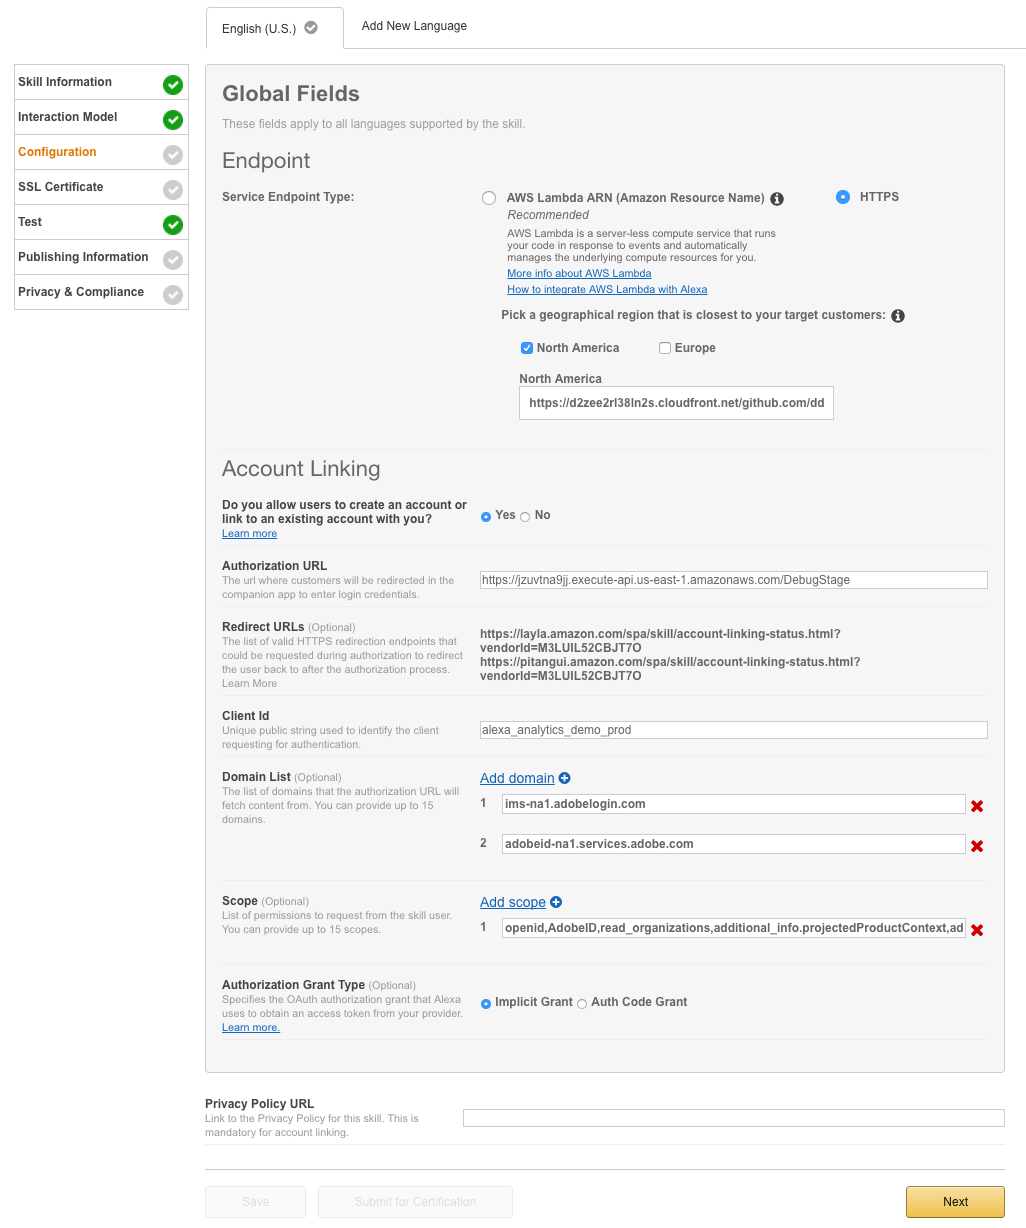
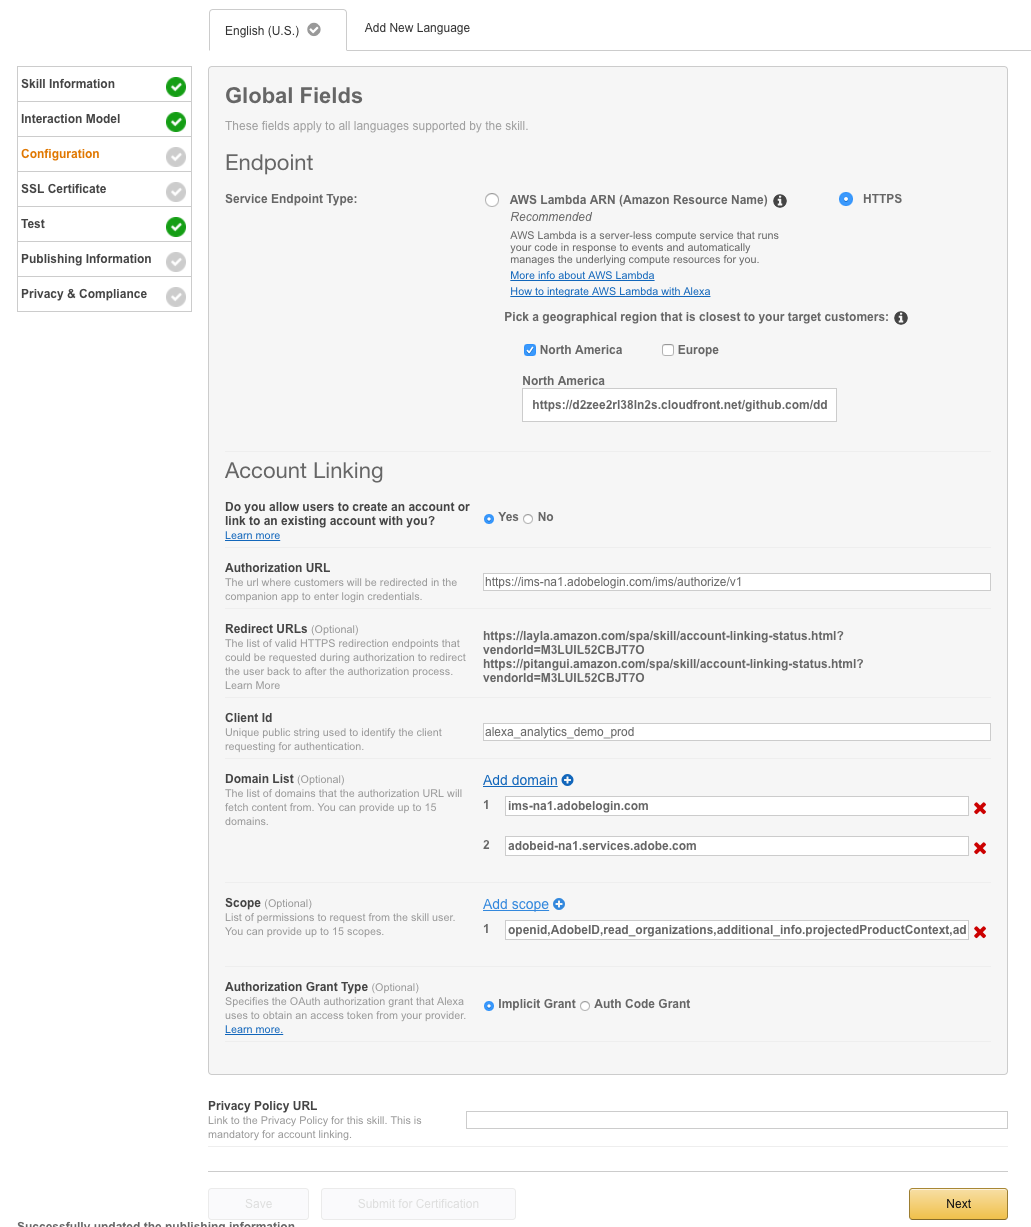
Configure readme updates

diff --git a/speechAssets/README.md b/speechAssets/README.md
@@ -3,10 +3,53 @@
 # Skills Info Setup
 ![Skills Info](./readmeAssets/skills_info.png?raw=true )
 
+1. In the name field pick something unique
+
+2. Invocation name is what is used by Alexa to start the Skill, for example if the skill is named "Adobe Analytics" you would say "Use Adobe Analytics" to start the skill.
+
+3. Leave global feilds as default
+
+
 # Interaction Model Setup
 ![Interaction Model Setup](./readmeAssets/interaction_model.png?raw=true )
+
+1. Paste in the intent schema from [here](./IntentSchema.json)
+
+2. Create a custom slot for each of the items here [here](./customSlotTypes)
+⋅⋅* Type name should match file name, copy contents of file into values
+
+1. Paste in sample utterances from [here](./SampleUtterances.txt)
 
 # Configuration Setup
 ![Configuration](./readmeAssets/configuration.png?raw=true )
 
+1. Service Endpoint should be HTTPS and point to the I/O Runtime container for the users skill
 
+2. Enable Account Linking
+
+3. Set authorization URL to 
+```
+https://ims-na1.adobelogin.com/ims/authorize/v1
+```
+
+4. Client ID should be 
+```
+alexa_analytics_demo_prod
+```
+
+5. Add the following domains to the list
+```
+ims-na1.adobelogin.com
+
+adobeid-na1.services.adobe.com
+```
+
+6. Under scopes add
+```
+openid,AdobeID,read_organizations,additional_info.projectedProductContext,additional_info.job_function,session
+```
+
+7. Set Authorization Grant type to Implicit
+```
+NOTE: This should be __Auth Code Grant__. Ran into a problem using the __Auth Code Grant__ so using implicit for the lab. Using Implicit means that the use must re-link their account with the skill every 24 hours.
+```
